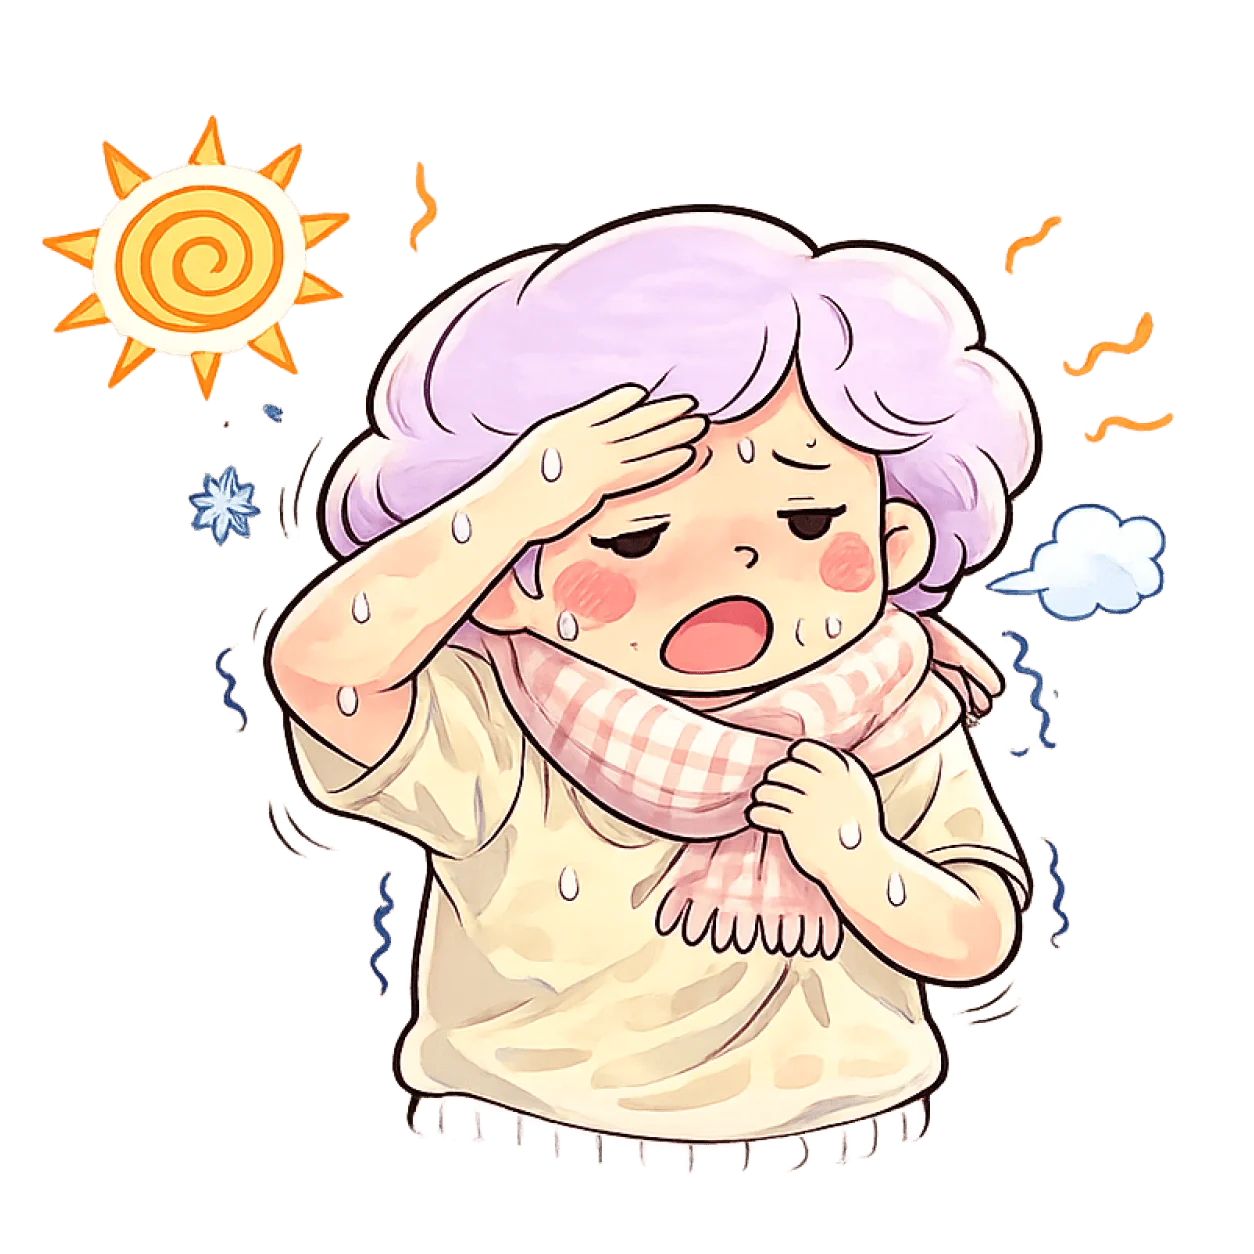
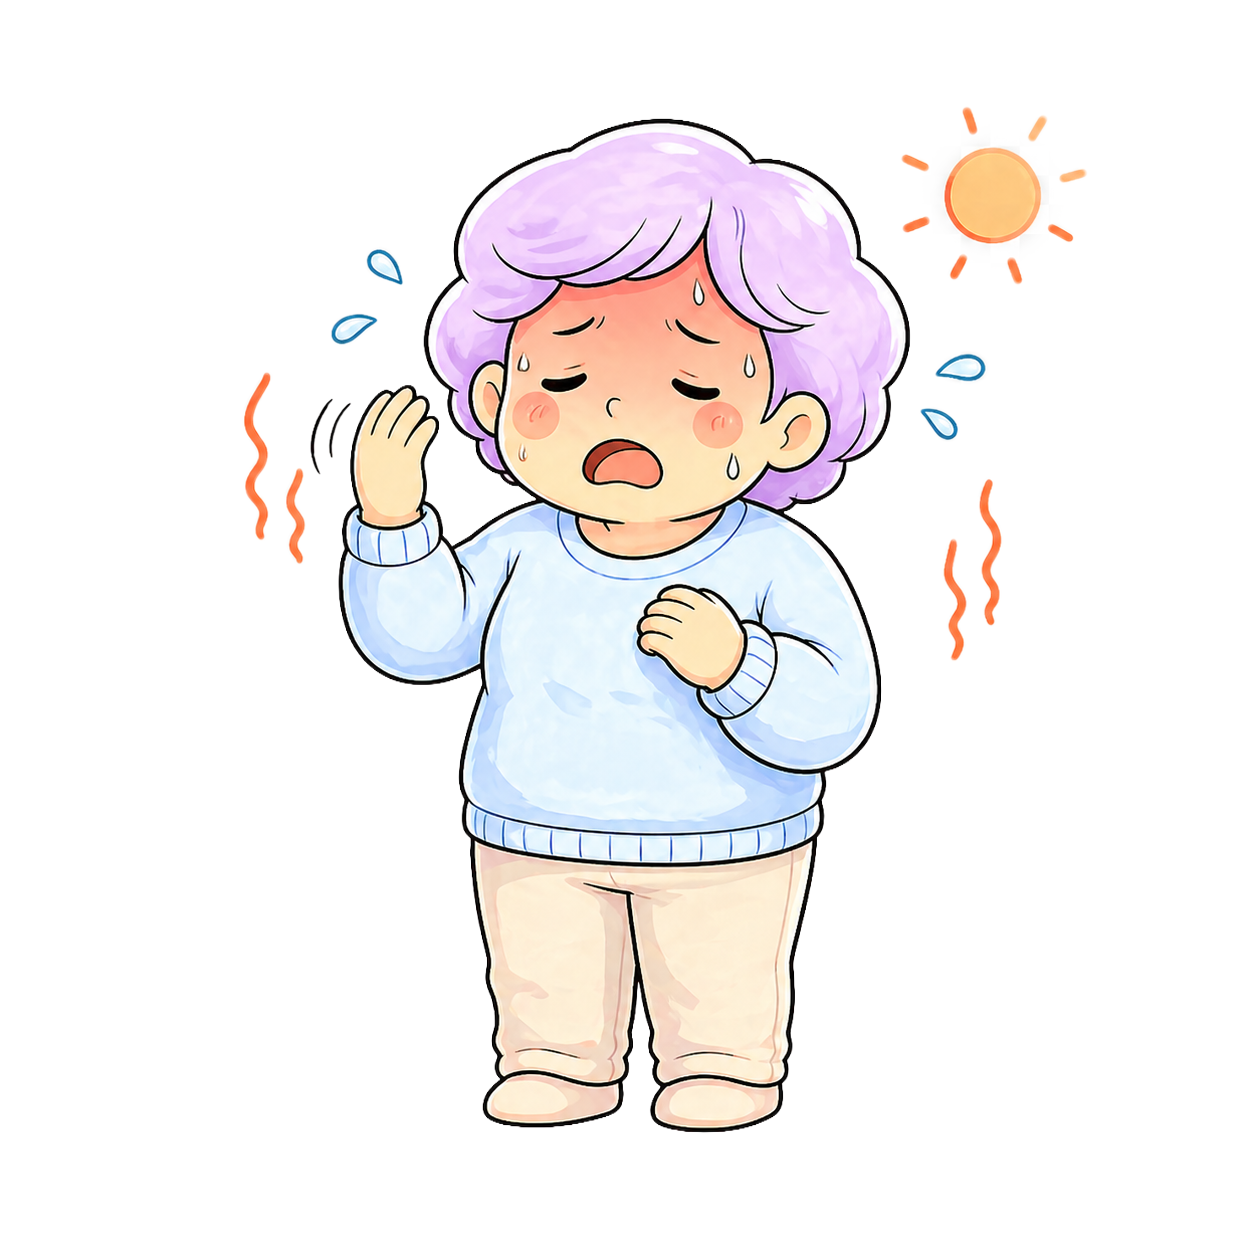
Wire milk.webp into the Drawing source map
Tile now renders the watercolor instead of falling back to text.

Made-with: Cursor

diff --git a/src/drawings/Drawing.tsx b/src/drawings/Drawing.tsx
@@ -24,6 +24,7 @@ import facialcream from "./images/caretaker/facialcream.webp";
 import fruit from "./images/caretaker/fruit.webp";
 import makeup from "./images/caretaker/makeup.webp";
 import massage from "./images/caretaker/massage.webp";
+import milk from "./images/caretaker/milk.webp";
 import nightlight from "./images/caretaker/nightlight.webp";
 import nuts from "./images/caretaker/nuts.webp";
 import oatmeal from "./images/caretaker/oatmeal.webp";
@@ -82,6 +83,7 @@ const SOURCES: Partial<Record<NeedSlug, string>> = {
   phone,
   bed,
   papaya,
+  milk,
 };
 
 /** Slugs that currently have a watercolor illustration. */
